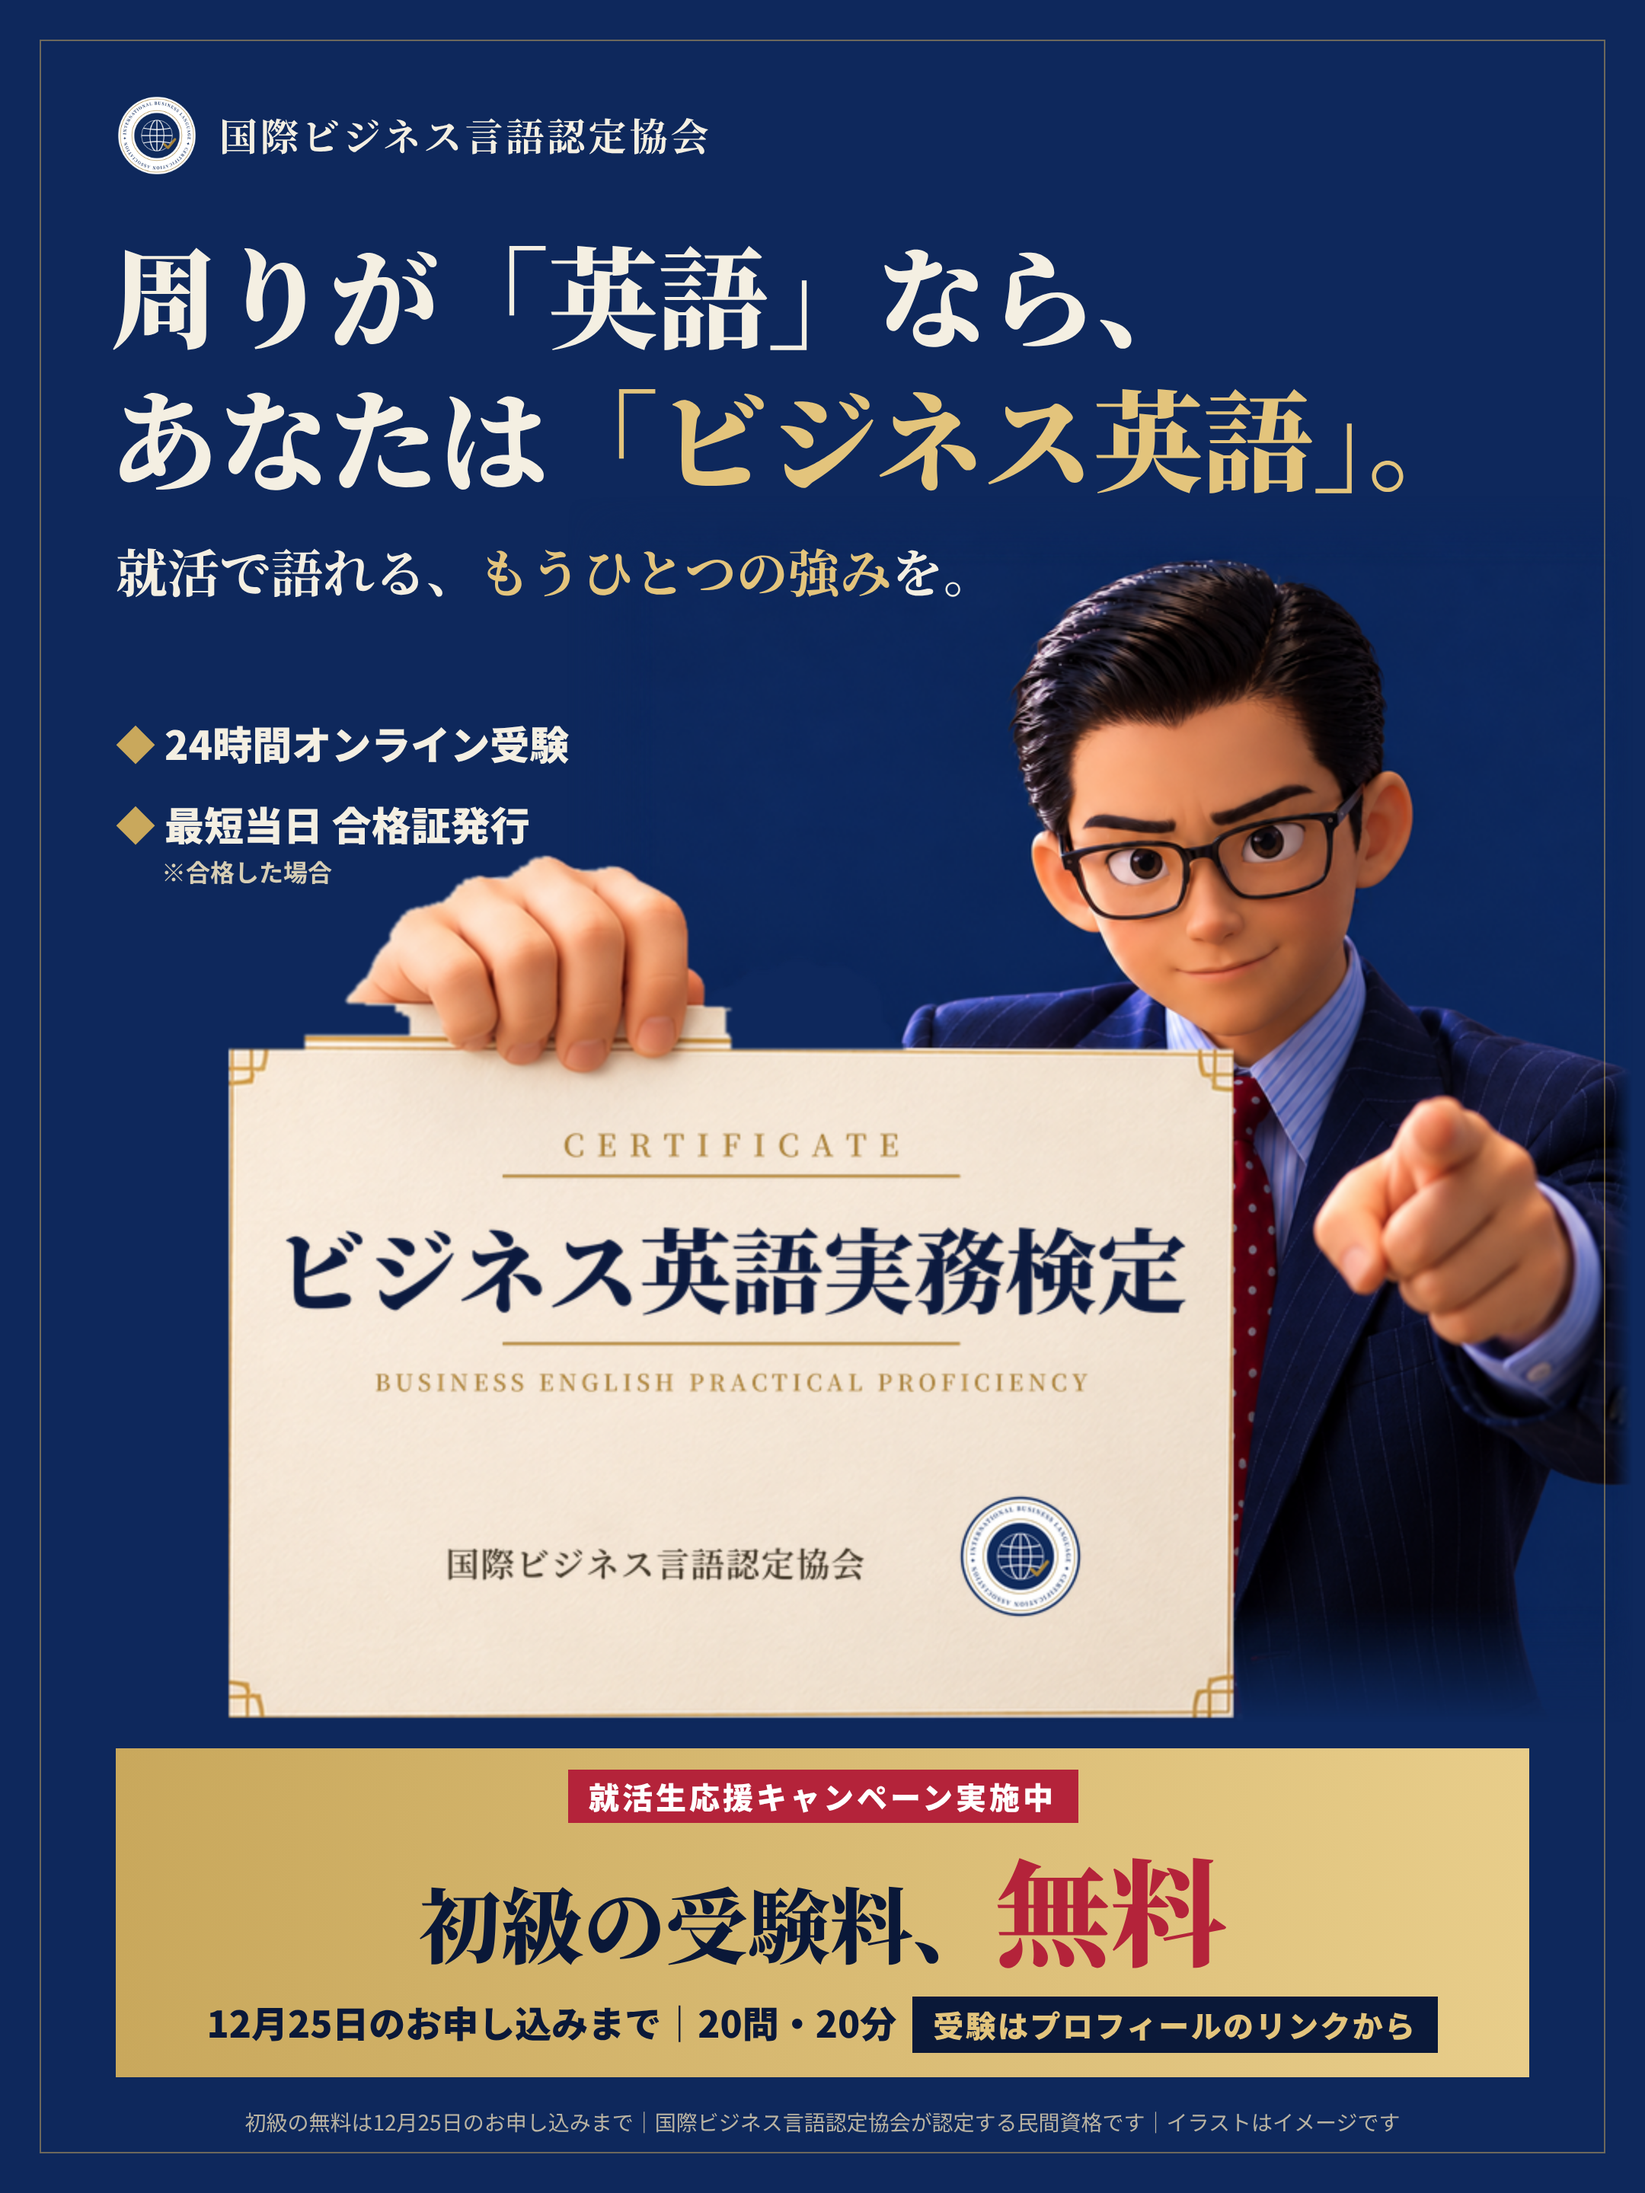
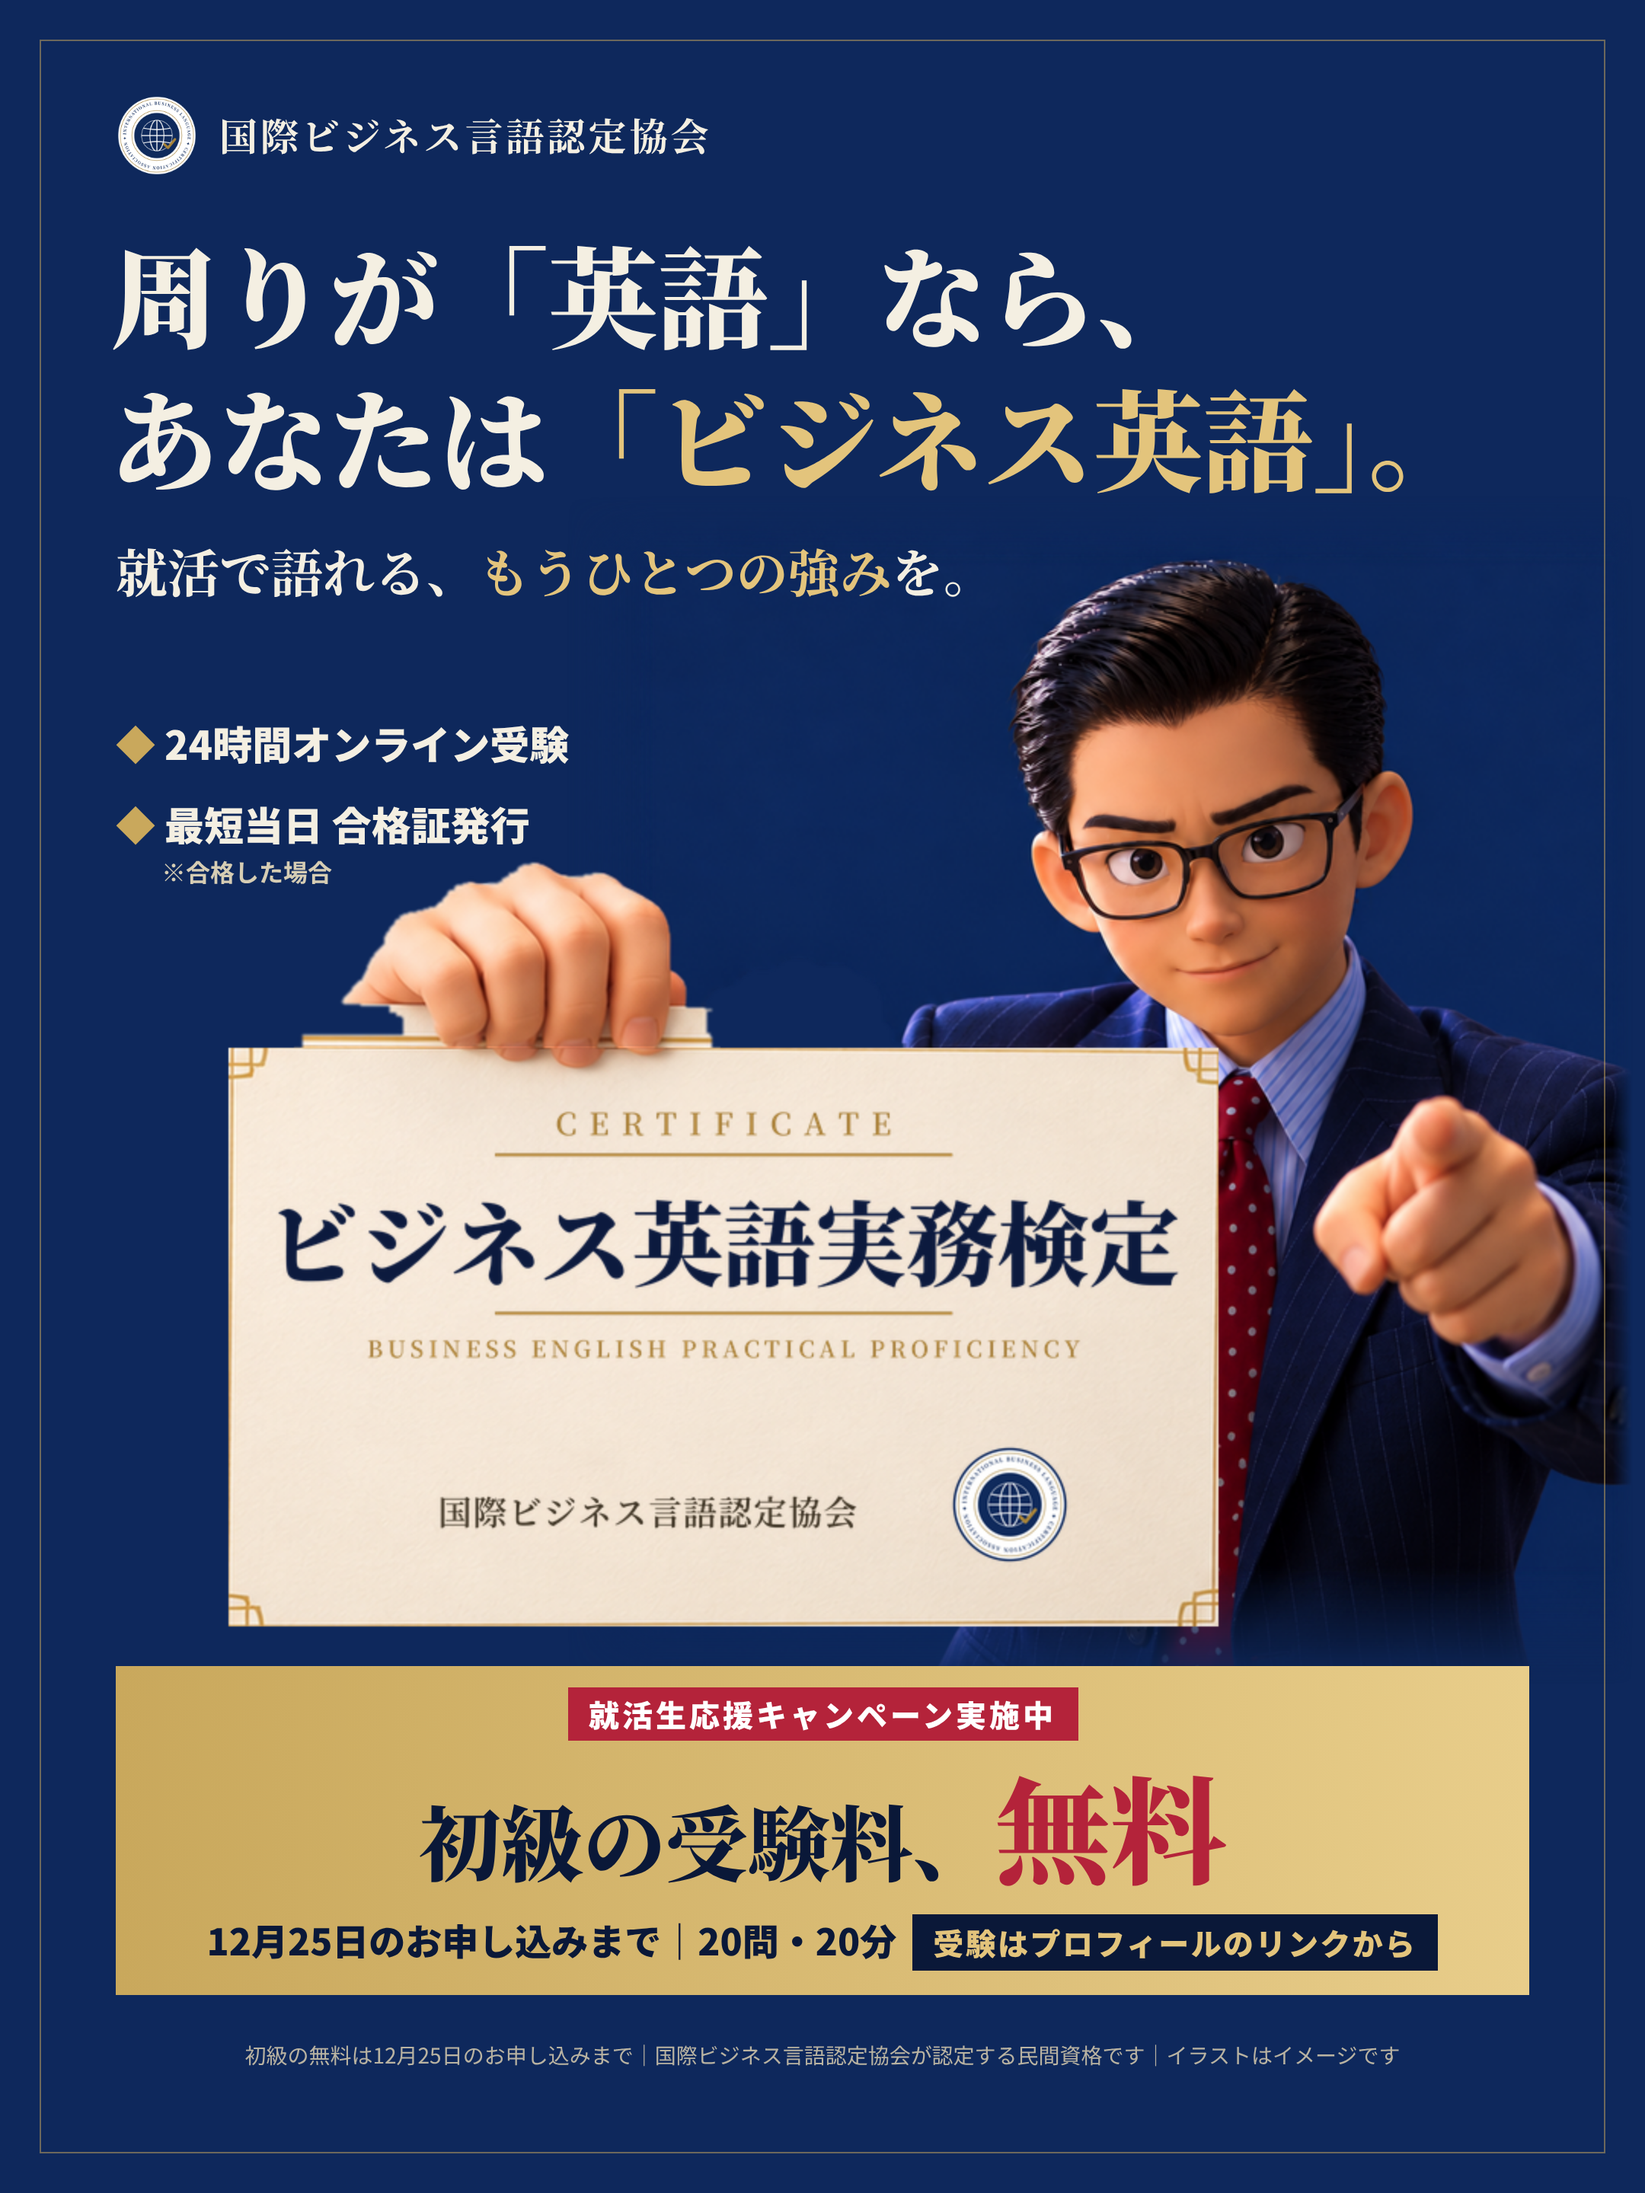
インスタ固定投稿用 v22：合格証の縦を短く（決定版）
Claude-Session: https://claude.ai/code/session_014p5jL2LKN9C3tYKst8GaL5

Changed region(s): [[0.062, 0.375, 0.9306, 0.9688], [0.1241, 0.4688, 0.1861, 0.5]]

diff --git a/content/posters/ig_v22.html b/content/posters/ig_v22.html
@@ -1,0 +1,35 @@
+<!doctype html><html><head><meta charset="utf-8"><style>
+*{margin:0;padding:0;box-sizing:border-box}
+html,body{width:1080px;height:1440px;overflow:hidden}
+body{font-family:"Noto Sans CJK JP",sans-serif;color:#f4efe2;-webkit-font-smoothing:antialiased;background:#0e285c;position:relative}
+.frame{position:absolute;left:26px;top:26px;right:26px;bottom:26px;border:1.5px solid rgba(201,168,92,.5);z-index:5}
+.brand{position:absolute;left:76px;top:62px;display:flex;align-items:center;gap:14px;z-index:4}
+.brand img{width:54px;height:54px}
+.brand .n{font-family:"Noto Serif CJK JP",serif;font-weight:700;font-size:25px;letter-spacing:.08em}
+.head{position:absolute;z-index:4;left:72px;right:60px;top:146px;font-family:"Noto Serif CJK JP",serif;font-weight:900;font-size:72px;line-height:1.3}
+.head em{font-style:normal;color:#e3c47c}
+.sub{position:absolute;z-index:4;left:76px;top:350px;font-family:"Noto Serif CJK JP",serif;font-weight:700;font-size:34px}
+.sub em{font-style:normal;color:#e3c47c}
+.ken{position:absolute;left:0;top:0;width:1080px;z-index:1}
+.fadeb{position:absolute;left:0;right:0;top:1060px;height:80px;background:linear-gradient(180deg,rgba(14,40,92,0),#0e285c 75%);z-index:2}
+.chips{position:absolute;z-index:4;left:76px;top:470px;display:flex;flex-direction:column;gap:16px;font-weight:900;font-size:26px;color:#f4efe2}.chips small{display:block;margin-left:30px!important;font-size:16px!important;color:#d6cdb4}
+.chips span:before{content:"◆ ";color:#c9a85c}.chips small{font-size:14px;font-weight:700;margin-left:4px}
+.cta{position:absolute;z-index:4;left:76px;right:76px;top:1094px;background:linear-gradient(90deg,#c9a85c,#e8cd8a);color:#0a1838;text-align:center;padding:14px 12px 16px}
+.cta .t{display:inline-block;background:#b4233a;color:#fff;font-weight:900;font-size:20px;letter-spacing:.1em;padding:3px 14px}
+.cta .nm{margin-top:4px;font-family:"Noto Serif CJK JP",serif;font-weight:900;font-size:52px;line-height:1.15;letter-spacing:.04em}
+.cta .nm:after{content:"";display:block;width:460px;height:1.5px;background:rgba(10,24,56,.45);margin:6px auto 2px}
+.cta .a{margin-top:10px;font-family:"Noto Serif CJK JP",serif;font-weight:900;font-size:54px;line-height:1.2}
+.cta .a b{font-size:76px;color:#b4233a}
+.cta .b{margin-top:12px;font-weight:900;font-size:24px}
+.cta .b span{display:inline-block;background:#0a1838;color:#e3c47c;padding:4px 14px;margin-left:10px;font-size:20px;letter-spacing:.06em}
+.note{position:absolute;z-index:4;left:0;right:0;top:1340px;text-align:center;font-size:14px;color:#b9b3a2}
+</style></head><body>
+<div class="frame"></div>
+<img class="ken" src="ken_layer22.png">
+<div class="brand"><img src="logo.png"><div class="n">国際ビジネス言語認定協会</div></div>
+<div class="head">周りが「英語」なら、<br>あなたは<em>「ビジネス英語」。</em></div>
+<div class="sub">就活で語れる、<em>もうひとつの強み</em>を。</div>
+<div class="chips"><span>24時間オンライン受験</span><span>最短当日 合格証発行<small>※合格した場合</small></span></div>
+<div class="cta"><div class="t">就活生応援キャンペーン実施中</div><div class="a">初級の受験料、<b>無料</b></div><div class="b">12月25日のお申し込みまで｜20問・20分<span>受験はプロフィールのリンクから</span></div></div>
+<div class="note">初級の無料は12月25日のお申し込みまで｜国際ビジネス言語認定協会が認定する民間資格です｜イラストはイメージです</div>
+</body></html>

diff --git a/log/posted.md b/log/posted.md
@@ -102,3 +102,4 @@
 - 2026-10-29 作成｜Instagram 固定投稿用 v19｜assets/images/IG_固定投稿_v19_合格証.jpg（横長の合格証に「ビジネス英語実務検定」を合成、ケンが見る人を指さす＋決定版の文言＋キャンペーン）｜未投稿（オーナーが自分で投稿）
 - 2026-10-29 作成｜Instagram 固定投稿用 v20（決定版に差し替え）｜合格証を約1.4倍に拡大し、「ビジネス英語実務検定」を大きく｜未投稿（オーナーが自分で投稿）
 - 2026-10-29 作成｜Instagram 固定投稿用 v21（決定版に差し替え）｜合格証をさらに拡大（横幅660px）｜未投稿（オーナーが自分で投稿）
+- 2026-10-29 作成｜Instagram 固定投稿用 v22（決定版に差し替え）｜合格証を横に広げて縦を短く（下に伸びすぎを修正）｜未投稿
